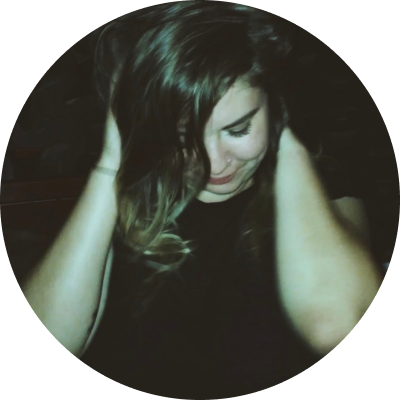
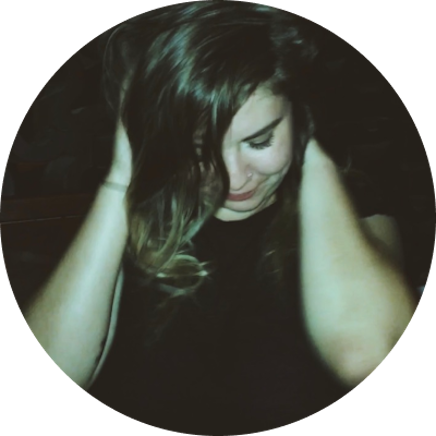
Resume Link / more mess with media query

diff --git a/css/style.css b/css/style.css
@@ -1,8 +1,12 @@
+html {
+    scroll-behavior: smooth;
+}
 body {
     font-family: 'Nunito Sans', sans-serif;
     background-color: #EFEBF1;
     color: #1b0c2b;
 }
+/* Header/Nav */
 nav {
     margin: 0;
     display: flex;
@@ -24,6 +28,7 @@ nav {
     font-family: 'Epilogue', sans-serif;
     text-decoration: none;
 }
+    /* Links/Scroll */
 a {
     text-decoration: none;
 }
@@ -38,40 +43,28 @@ a:active {
 .smoothScroll {
     font-weight: 600;
 }
+/* Hero */
 .heroSection {
     display: flex;
     justify-content: space-around;
     align-items: center;
     padding-top: 15px;
     padding-bottom: 80px;
-    padding-right: 20px;
-    padding-left: 20px;
+    padding-right: 40px;
+    padding-left: 40px;
     text-align: center;
 }
 .leftHero {
     display: flex;
-    justify-content: flex-end;
 }
 .heroContent {
     margin: 50px
 }
-.heroFlex {
+.rightHero {
     display: flex;
-    padding: 20px;
-    margin: 10px;
-    text-align: center;
-}
-#heroRow {
-    flex-direction: row;
-    flex-wrap: wrap;
-    text-align: center;
-  
-}
-.rightHero img {
-    width: 436px;
-    height: 436px;
     animation: spin 10s infinite;
 }
+/* Button .heading */
 button {
     display: block;
     align-items: center;
@@ -94,7 +87,12 @@ button {
     color: #1b0c2b;
     font-weight: bold;
 }
-/* My UX Skills section coded using CSS flex */
+h1, h2, h3, h4 {
+    font-family: 'Epilogue', sans-serif;
+    color: #1b0c2b;
+    font-weight:800;
+}
+/* My UX Skills section - flex */
 .flexContainer {
     display: flex;
     width: 100%;
@@ -131,11 +129,6 @@ button {
     flex-flow: column wrap;
     align-items: center;
     text-align: center;
-}
-h1, h2, h3, h4 {
-    font-family: 'Epilogue', sans-serif;
-    color: #1b0c2b;
-    font-weight:800;
 }
 /* My Work Section Grid */
 .myWork {
@@ -189,7 +182,7 @@ h1, h2, h3, h4 {
     display: block;
     align-items: center;
 }
-/*footer section */
+/* footer section */
 footer {
     display: flex;
     justify-content: center;
@@ -206,6 +199,30 @@ footer {
     padding: 2px;
     font-family: 'Epilogue', sans-serif;
 }
+/* Keyframes/ Media Query */
+@keyframes spin {
+    from {
+        transform: rotate(180deg);
+    }
+    to {
+        transform: rotate(-180deg);
+    }
+}
+@media only screen and (max-width: 1024px){
+    .heroSection {
+        max-height: 595px;
+    }
+    .leftHero {
+        max-height: 200px;
+    }
+    .heroContent {
+        max-height: 300px;
+    }
+    .rightHero {
+        max-width: 200px;
+        max-height: 200px;
+    }
+
 @media only screen and (max-width: 600){
     .flexContainer .flexContainer div{
         flex-direction: column;
@@ -224,13 +241,5 @@ footer {
             "img3" 
             "content3"
         ;
-    }
-}
-@keyframes spin {
-    from {
-        transform: rotate(180deg);
-    }
-    to {
-        transform: rotate(-180deg);
     }
 }

diff --git a/index.html b/index.html
@@ -17,16 +17,16 @@
         <div class="nav-button-container">
             <ul>
                 <li class="nav-button">
-                    <a href="index.html"><div class="inline-block">About</div></a>
+                    <a href="index.html"><div class="inline-block">ABOUT</div></a>
                 </li>
                 <li class="nav-button">
-                    <a href="index.html"><div class="inline-block">Work</div></a>
+                    <a href="index.html"><div class="inline-block">WORK</div></a>
                 </li>
                 <li class="nav-button">
-                    <a href="index.html"><div class="inline-block">Skills</div></a>
+                    <a href="https://drive.google.com/file/d/1zRApkLvt9xCZ6GshpwoFXKCsau0TBH8q/view?usp=sharing" target="_blank"><div class="inline-block">RESUME</div></a>
                 </li>
                 <li class="nav-button">
-                    <a href="index.html"><div class="inline-block">Contact</div></a>
+                    <a href="index.html"><div class="inline-block">CONTACT</div></a>
                 </li>
             </ul>
         </div>
